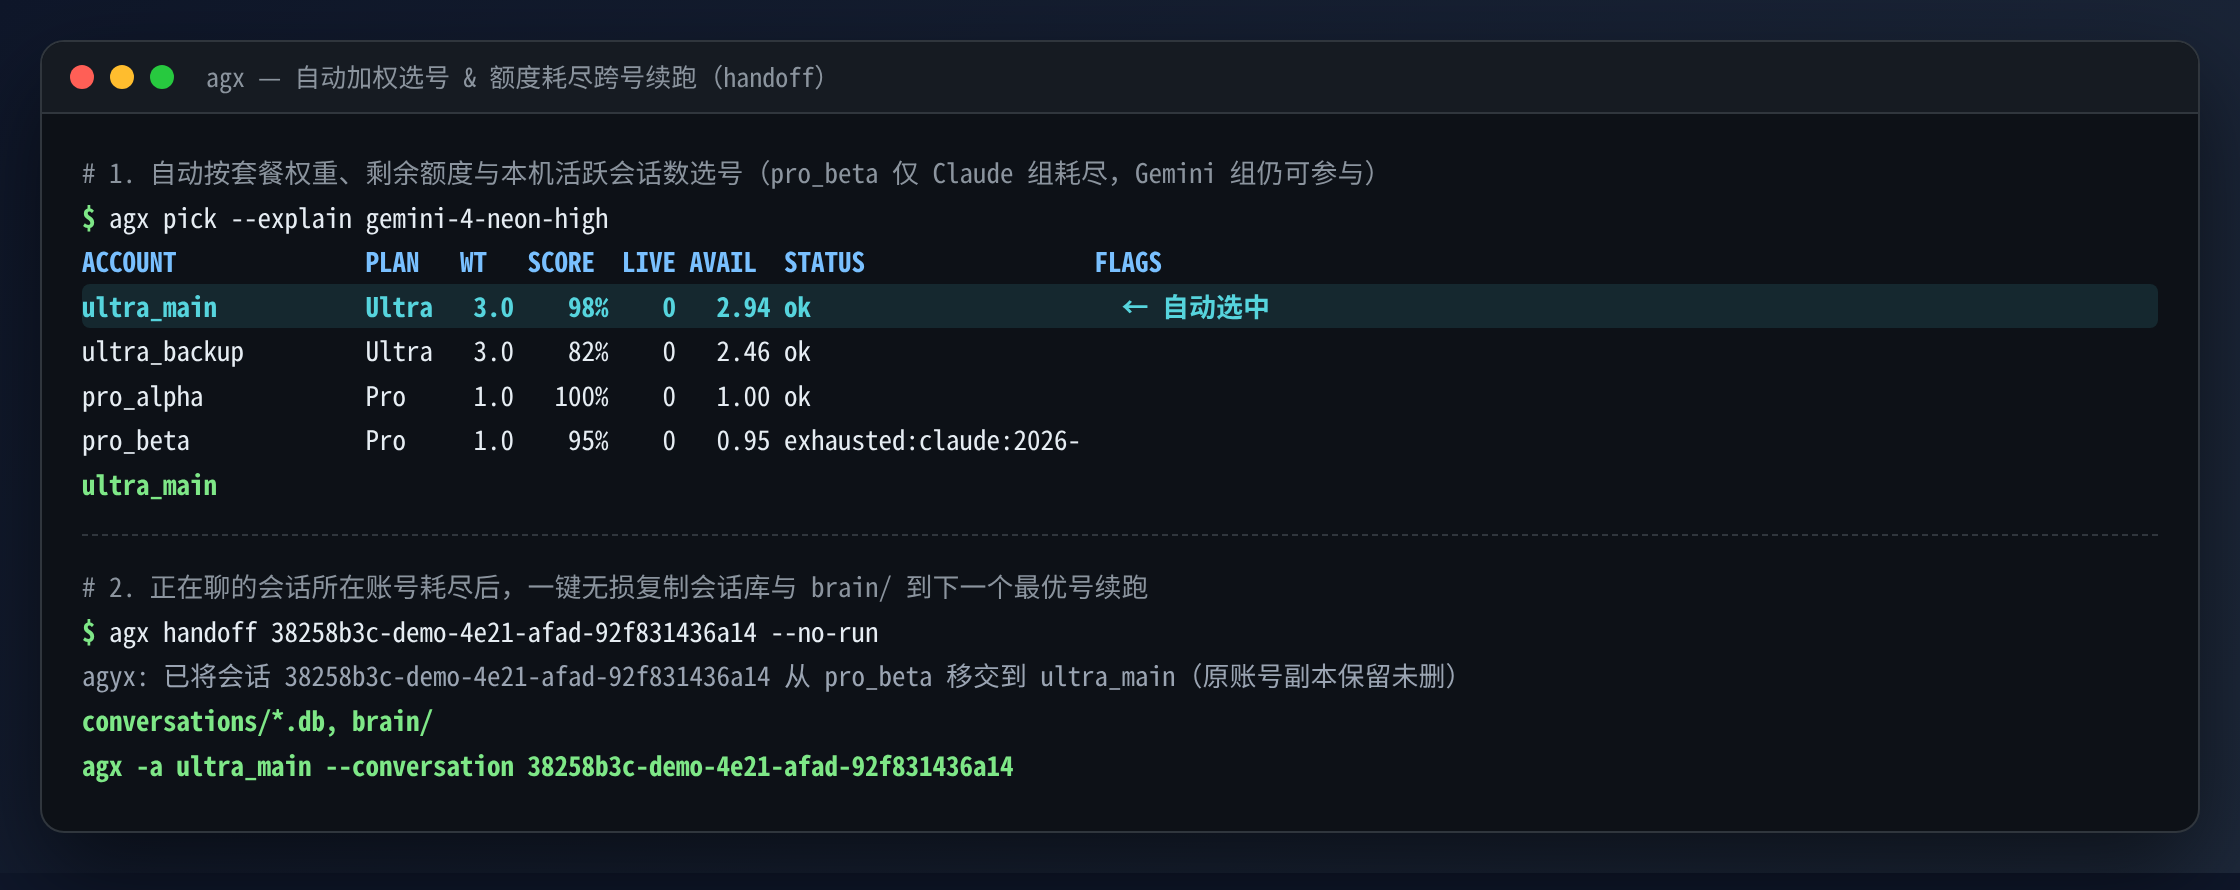
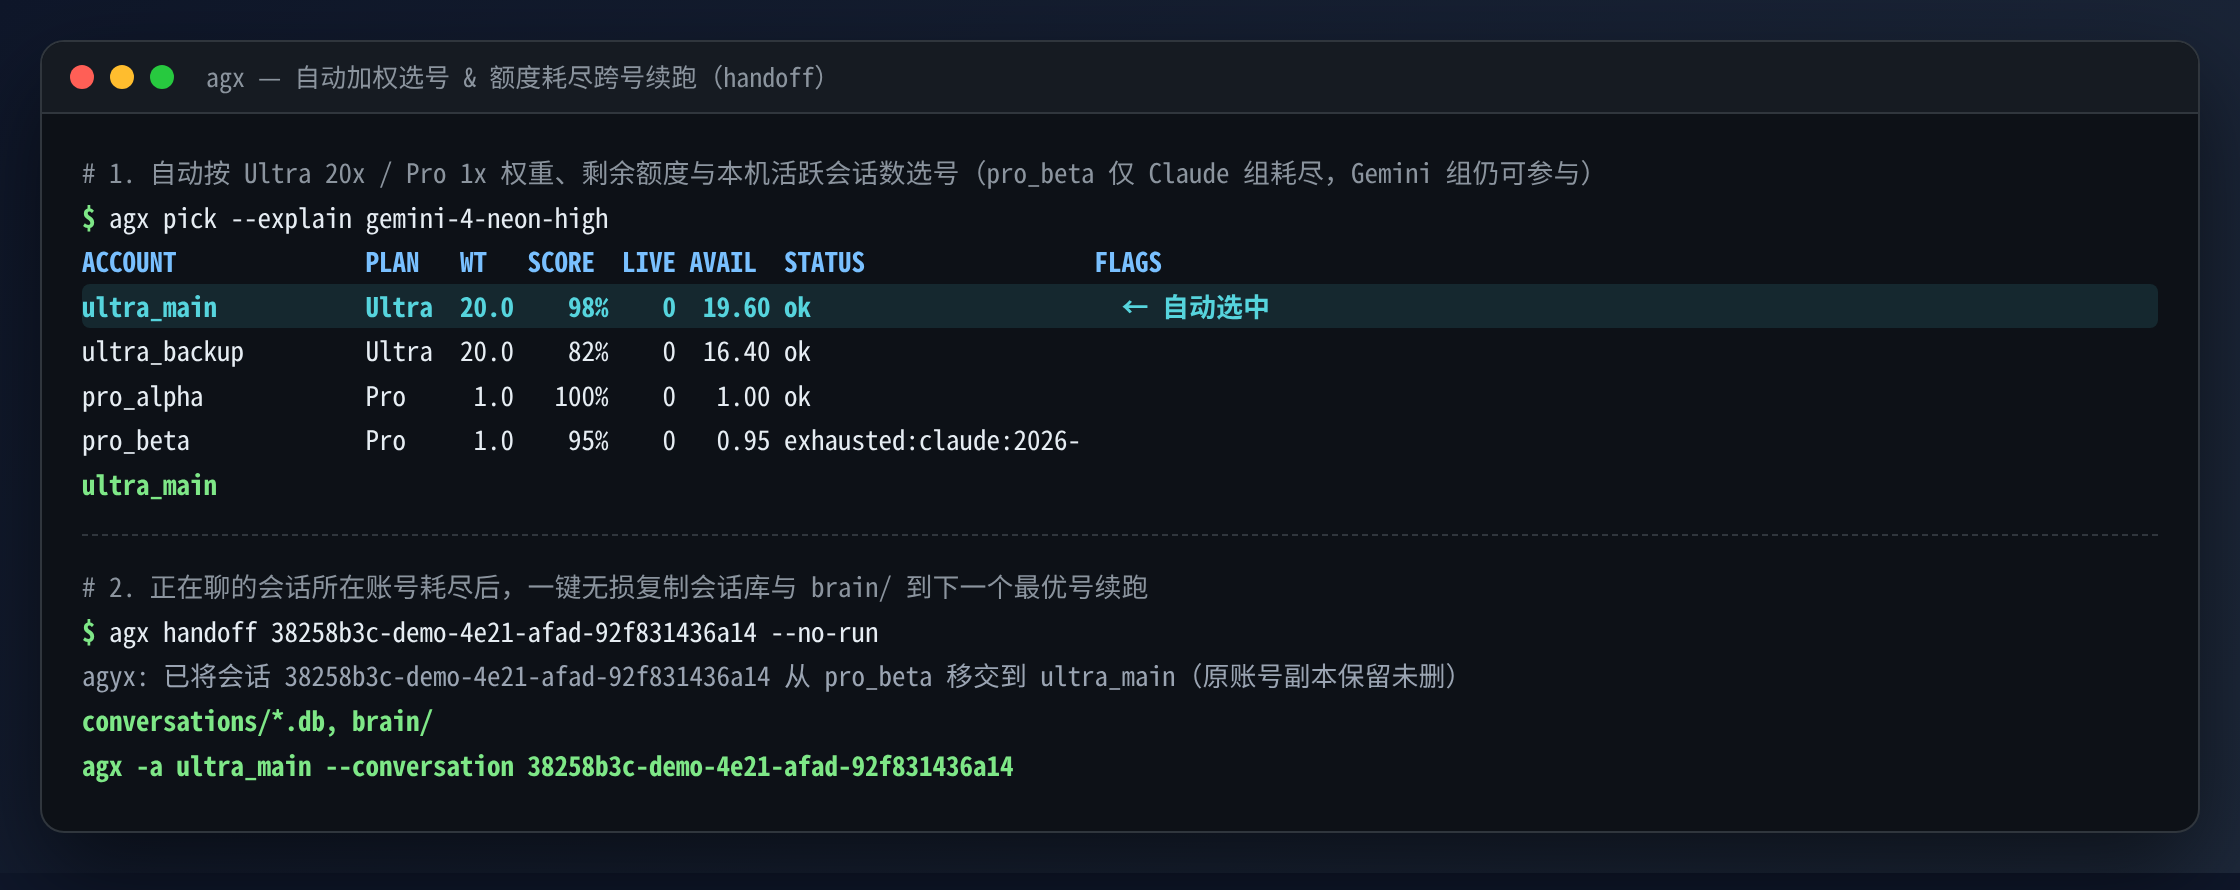
feat: raise default Ultra weight to 20x with relative 5% LRU bucketing

Changed region(s): [[0.0938, 0.182, 0.7188, 0.2124], [0.3125, 0.3337, 0.3438, 0.364], [0.1875, 0.3337, 0.2188, 0.364]]

diff --git a/tests/test_agx.py b/tests/test_agx.py
@@ -153,31 +153,45 @@ echo "FAKE_AGY_ARGS: $*"
         )
         (self.pool / "order").write_text("pro1\nultra_low\nultra_high\n", encoding="utf-8")
 
-        # Default spread: ultra_high (3.0 * 0.98 = 2.94) beats ultra_low (2.40) and pro1 (1.00)
+        # Default spread: ultra_high (20.0 * 0.98 = 19.6) beats ultra_low (16.0) and pro1 (1.00)
         r = self.run_agx(["pick", "gemini-4-neon-high"])
         self.assertEqual(r.returncode, 0, r.stderr)
         self.assertEqual(r.stdout.strip(), "ultra_high")
 
-        # --explain prints table header and winner
+        # --explain prints table header and winner with 20.0 Ultra weight
         r_exp = self.run_agx(["pick", "--explain", "gemini-4-neon-high"])
         self.assertEqual(r_exp.returncode, 0, r_exp.stderr)
         self.assertIn("ACCOUNT", r_exp.stderr)
-        self.assertIn("AVAIL", r_exp.stderr)
+        self.assertIn("20.0", r_exp.stderr)
         self.assertEqual(r_exp.stdout.strip(), "ultra_high")
 
-        # Tie-breaking via LRU when within same AVAIL bucket
+        # Tie-breaking via LRU when within relative 5% AVAIL bucket (98% vs 97% Ultra)
         make_account(
             self.pool,
             "ultra_tie",
             plan="Google AI Ultra",
             usage_rows=[
-                ("Gemini Models", "Five Hour", "98%", future),
+                ("Gemini Models", "Five Hour", "97%", future),
                 ("Gemini Models", "Weekly", "100%", future),
             ],
             last_used=10,
         )
         r_lru = self.run_agx(["pick", "gemini-4-neon-high"])
         self.assertEqual(r_lru.stdout.strip(), "ultra_tie")
+
+        # Ultra at 10% remaining (20.0 * 0.10 = 2.0) still beats idle Pro at 100% (1.0),
+        # while Ultra at 4% remaining (0.8) yields to idle Pro (1.0)
+        make_account(
+            self.pool,
+            "starter_acct",
+            plan="Antigravity Starter Quota",
+            usage_rows=[("Gemini Models", "Five Hour", "100%", future)],
+        )
+        r_low_u = self.run_agx(
+            ["pick", "gemini-4-neon-high"],
+            {"AGYX_EXCLUDE_ACCOUNTS": "ultra_high,ultra_tie,ultra_low"},
+        )
+        self.assertEqual(r_low_u.stdout.strip(), "pro1")
 
         # --prefer-plan pro overrides Ultra
         r_pro = self.run_agx(["pick", "--prefer-plan", "pro", "gemini-4-neon-high"])

diff --git a/README.md b/README.md
@@ -25,7 +25,7 @@ agx pick --explain gemini-4-neon-high
 1. **按模型映射额度组**：根据目标模型对应到 `Gemini`、`Claude/GPT` 或 `Argon` 额度组。
 2. **过滤不可用账号**：跳过 `bad:`、目标组处于 `exhausted:<组>` 或 15 分钟 429 冷却中、任一未到期窗口剩余 ≤ 2%，以及 `models.txt` 中不含目标模型的账号。
 3. **过期缓存自动复查**：额度缓存超过 30 分钟时，自动执行官方 `/usage` 刷新并重新判定。
-4. **按可用容量最高排序 + LRU 轮转**：实时统计本机各账号正在运行的 `agy` 活跃会话数 `LIVE`，按 **`AVAIL = (套餐权重 × 剩余比例) / (1 + LIVE)`** 从高到低选号（Ultra 权重 `3.0`、Pro 权重 `1.0`），同档位按最久未用（LRU）轮转——活跃会话多的号自动降权分流，新会话优先落到余量最高的 Ultra/Pro 号。
+4. **按可用容量最高排序 + LRU 轮转**：实时统计本机各账号正在运行的 `agy` 活跃会话数 `LIVE`，按 **`AVAIL = (套餐权重 × 剩余比例) / (1 + LIVE)`** 从高到低选号（Ultra 默认权重 `20.0`、Pro 权重 `1.0`、Free/Starter `0.2`，反映 Ultra 与 Pro 约 20 倍的真实额度差异），相对 5% 同档位按最久未用（LRU）轮转——活跃会话多的号自动降权分流，新会话优先落到余量最高的 Ultra/Pro 号。
 
 ### 2. 一个账号额度用完了怎么办？
 
@@ -115,7 +115,7 @@ agx ls
 | `AGYX_PROXY` | `keep` | `keep` 沿用当前 shell 代理；也可固定指定如 `http://127.0.0.1:7890` |
 | `AGYX_NO_PROXY` | `localhost,127.0.0.1,::1,10.0.0.0/8` | 固定代理时的直连列表 |
 | `AGYX_PICK_STRATEGY` | `spread` | `spread` 动态加权轮转；`order` 按 `order` 文件固定顺序用尽再换 |
-| `AGYX_ULTRA_WEIGHT` / `AGYX_PRO_WEIGHT` | `3.0` / `1.0` | Ultra 与 Pro 套餐容量权重 |
+| `AGYX_ULTRA_WEIGHT` / `AGYX_PRO_WEIGHT` | `20.0` / `1.0` | Ultra 与 Pro 套餐容量权重（匹配 20 倍真实额度差） |
 | `AGYX_PREFER_PLAN` | 空 | 留空为全池加权轮转；设为 `pro` 或 `ultra` 可限定优先套餐 |
 | `AGYX_MIN_PCT` | `2` | 目标模型组任一未到期窗口剩余 ≤ 该百分比视为耗尽 |
 | `AGYX_COOLDOWN_MIN` | `15` | 触发 429 后该模型组的短冷却分钟数（`0` 关闭） |
